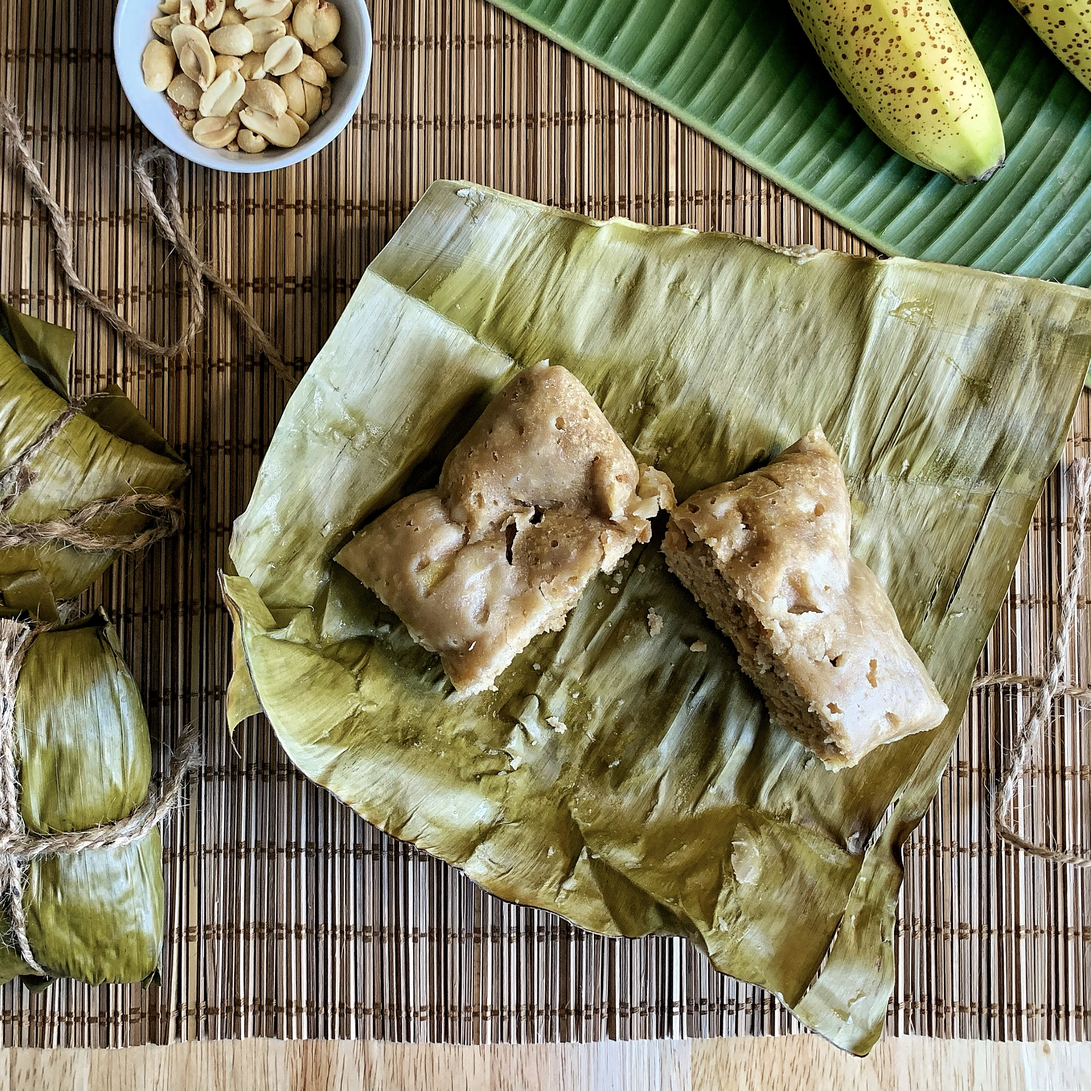
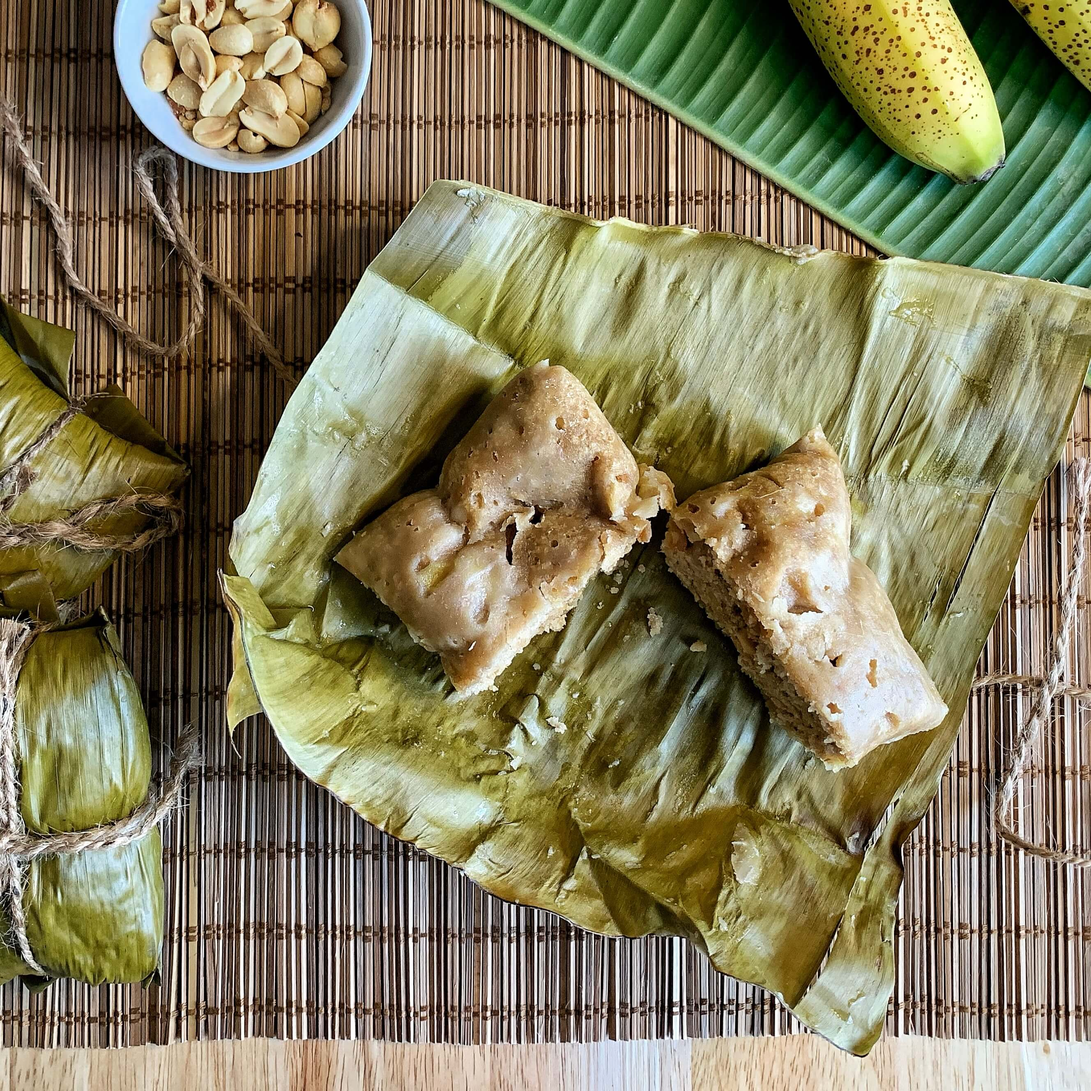
Misc tweaks
- Compression of images
- Adjusts grammar
- Fix auto-scroll of carousel to 5000ms
- Make map wider on mobile

diff --git a/src/components/About.tsx b/src/components/About.tsx
@@ -12,15 +12,15 @@ export default function About() {
       <h3>Who am I?</h3>
       <p>
         My name is Xander, a (very) amateur baker from the UK. I've been baking
-        my way through traditional dessert recipes from the world's island
+        (and cooking, steaming, frying....) my way through traditional dessert recipes from the world's island
         countries.
       </p>
       <h1>🍰</h1>
       <h3>What is this page about?</h3>
       <p>
         I document most of my creations in my Instagram (link below!), but I
-        really wanted to visualise all my work on a map - so I present, the
-        "Desserted Islands Map" below
+        really wanted to visualise all my desserts on a map - so I present, the
+        "Desserted Islands Map" below.
       </p>
       <br></br>
     </Section>

diff --git a/src/components/Map.tsx b/src/components/Map.tsx
@@ -18,6 +18,7 @@ export default function MapContainer() {
   return (
     <Section about="map" placement="odd">
       <h2>Desserted Islands Map</h2>
+      <h1>🌎</h1>
       <p>
         Discover desserts recipes! Click the markers on the map below to explore
         dessert recipes from the world's island countries.

diff --git a/src/components/Carousel.tsx b/src/components/Carousel.tsx
@@ -9,7 +9,7 @@ export default function CarouselSection() {
       <Carousel
         showThumbs={false}
         autoPlay={true}
-        interval={500000}
+        interval={3000}
         infiniteLoop
       >
         <div className="carousel-div">

diff --git a/src/components/Map.css b/src/components/Map.css
@@ -25,4 +25,8 @@
     .leaflet-container {
         height: 50vh
     }
+    .map-container {
+        width: 100vw;
+        margin-left: -60px;
+    }
 }
